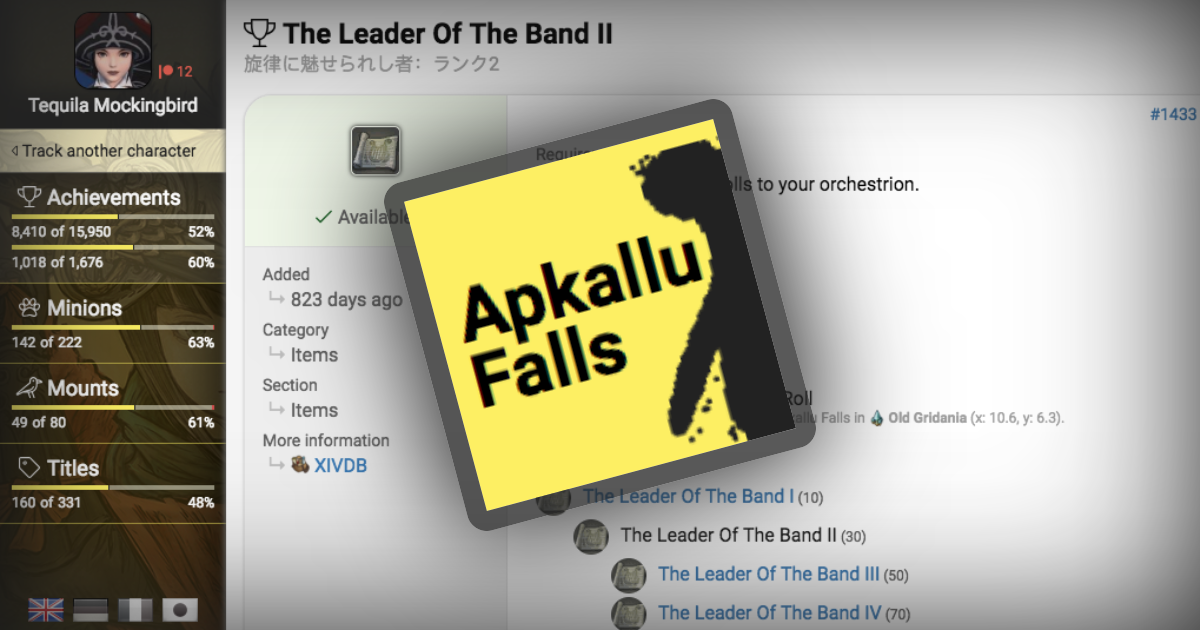
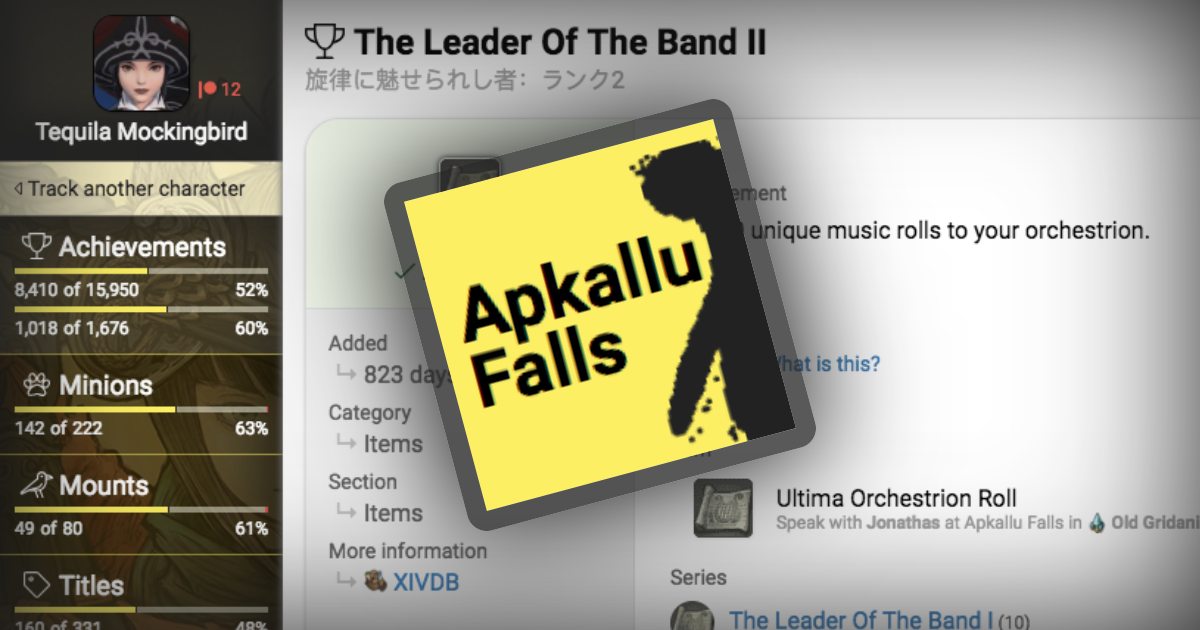
Made backdrop more legible.

diff --git a/404.html b/404.html
@@ -7,7 +7,7 @@
     <meta property="og:url" content="https://apkallufalls.com">
     <meta property="og:title" content="Apkallu Falls">
     <meta property="og:type" content="website">
-    <meta property="og:image" content="https://alpha.apkallufalls.com/icon/backdrop-2.0.png">
+    <meta property="og:image" content="https://alpha.apkallufalls.com/icon/backdrop-2.0.png?v=2">
     <meta property="og:description" content="A Final Fantasy XIV achievement, minion, mount and title tracker which primarily tracks content which is available right now in the game.">
     <meta name="twitter:card" content="summary" />
     <meta name="twitter:creator" content="@inb4" />

diff --git a/index.html b/index.html
@@ -8,7 +8,7 @@
     <meta property="og:url" content="https://apkallufalls.com">
     <meta property="og:title" content="Apkallu Falls">
     <meta property="og:type" content="website">
-    <meta property="og:image" content="https://alpha.apkallufalls.com/icon/backdrop-2.0.png">
+    <meta property="og:image" content="https://alpha.apkallufalls.com/icon/backdrop-2.0.png?v=2">
     <meta property="og:description" content="A Final Fantasy XIV achievement, minion, mount and title tracker which primarily tracks content which is available right now in the game.">
     <meta name="twitter:card" content="summary" />
     <meta name="twitter:creator" content="@inb4" />
